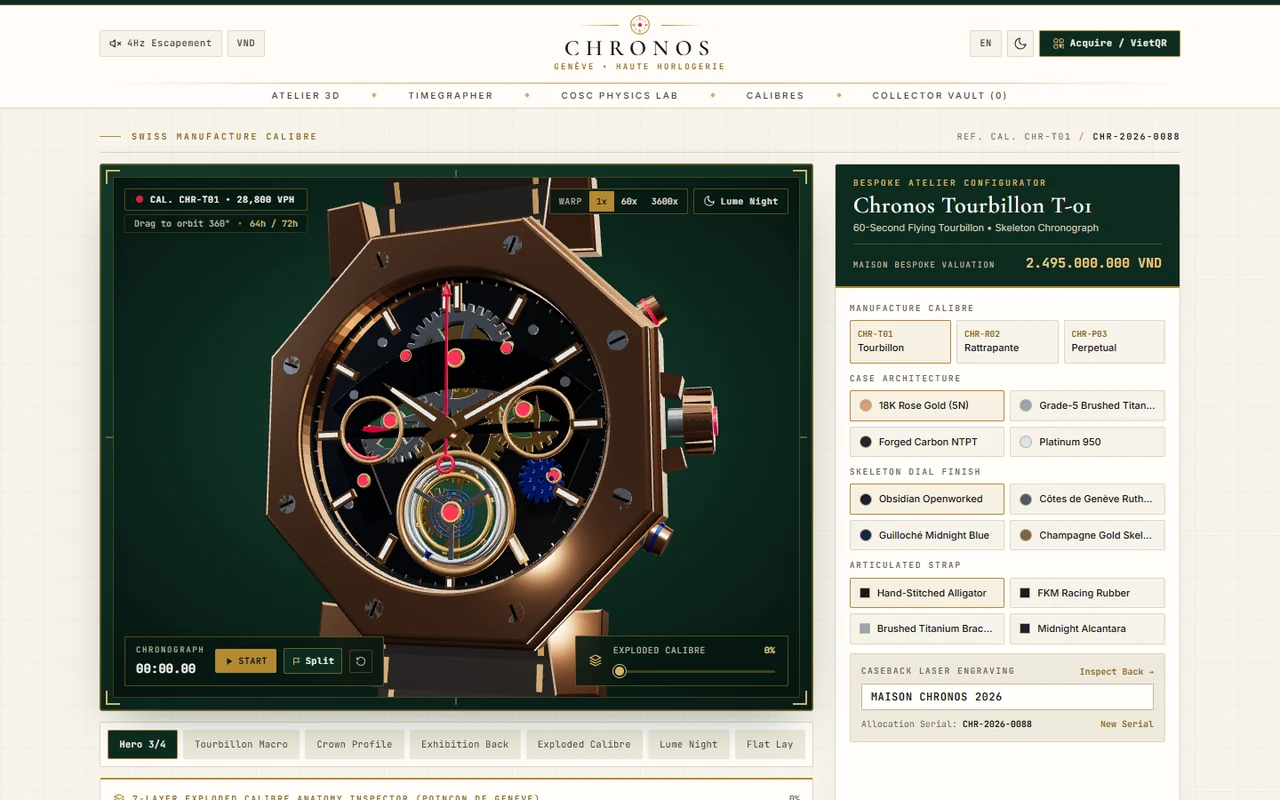
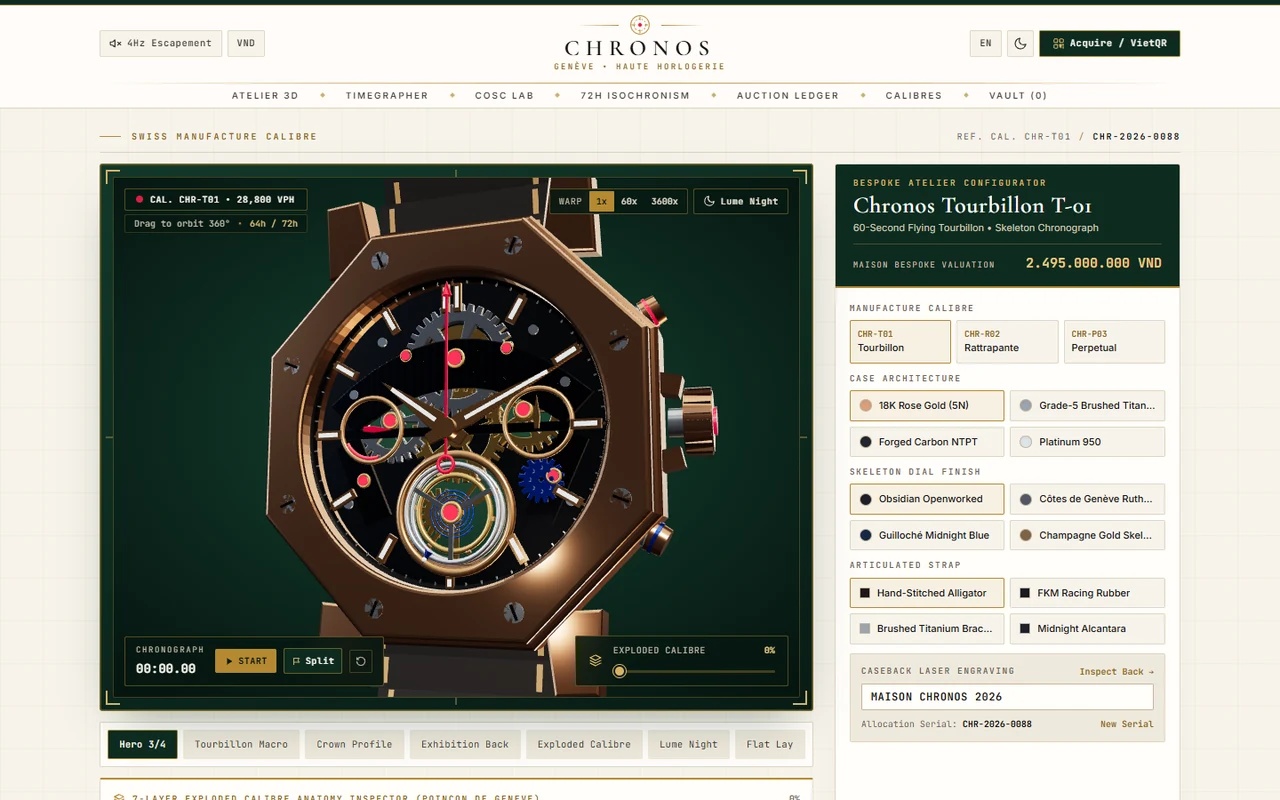
release(v11.5): Top-10 Masterworks v3/v4/v5, 3,294 verified live CI tests & fresh previews

diff --git a/src/data/atelierContent.ts b/src/data/atelierContent.ts
@@ -21,7 +21,7 @@ export const FLAGSHIP_WORKS: FlagshipWorkItem[] = [
     id: 'tvt-studio',
     index: '01',
     title: 'TVT Studio',
-    version: 'v8.0 · Supabase RLS',
+    version: 'v8.5 · Supabase RLS',
     category: 'commerce',
     taglineEn: '26 Full-Stack Monorepo Storefront, Code-Split 83kB Entry, Executive Admin CMS & MBBank SePay Auto-Pay',
     taglineVi: 'Kho 26 Hệ Thống Full-Stack Monorepo, Tách Gói 83kB, Admin CMS Analytics & Tự Động Duyệt MBBank SePay',
@@ -36,14 +36,14 @@ export const FLAGSHIP_WORKS: FlagshipWorkItem[] = [
     id: 'orbitalflow-saas',
     index: '02',
     title: 'OrbitalFlow SaaS',
-    version: 'v2.0 · .NET 10',
+    version: 'v3.0 · .NET 10',
     category: 'enterprise',
-    taglineEn: 'Full-Stack .NET 10 + React 19 B2B SaaS: Drag-Drop Kanban, Undo/Redo, Issue Drawer, 2-Tab Realtime & Stripe Proration',
-    taglineVi: 'Full-Stack .NET 10 + React 19 B2B SaaS: Drag-Drop Kanban, Undo Ctrl+Z, Issue Drawer, Đồng Bộ 2 Tab & Stripe Proration',
+    taglineEn: 'Full-Stack .NET 10 B2B SaaS: Live Top-Bar RBAC 403 Switcher, Monte Carlo 500x Forecast, Webhook DLQ & 2-Tab Realtime',
+    taglineVi: 'Full-Stack .NET 10 B2B SaaS: Đổi Role RBAC 403 Trực Tiếp, Dự Báo Monte Carlo 500 Lượt, Webhook DLQ & Đồng Bộ 2 Tab',
     previewImage: 'previews/orbitalflow-saas.webp',
-    highlightMetric: '.NET 10 + Docker · 2-Tab Sync · 74kB Entry',
-    ciBadge: '103/103 CI',
-    keywords: ['.NET 10 Clean Arch', 'Drag-Drop + Undo', 'Gantt CPM Arrows', 'Stripe Metering', 'OpenAPI 3.1 + ADRs'],
+    highlightMetric: '.NET 10 1.56ms · RBAC 403 · Monte Carlo 500x',
+    ciBadge: '142/142 CI',
+    keywords: ['.NET 10 Clean Arch', 'Live RBAC 403', 'Monte Carlo 500x', 'Webhook DLQ HMAC', 'OpenAPI 3.1 + ADRs'],
     liveUrl: 'https://tvt987.github.io/orbitalflow-saas/',
     repoUrl: 'https://github.com/tvt987/orbitalflow-saas',
   },
@@ -51,14 +51,14 @@ export const FLAGSHIP_WORKS: FlagshipWorkItem[] = [
     id: 'vectradoc-rag',
     index: '03',
     title: 'VectraDoc AI',
-    version: 'v2.0 · FastAPI',
+    version: 'v3.0 · FastAPI',
     category: 'ai',
-    taglineEn: 'Full-Stack Python FastAPI + React 19 Hybrid RAG: Client PDF Parser, 4-Way A/B Matrix, Chunk Minimap & BYOK Streaming',
-    taglineVi: 'Full-Stack Python FastAPI + React 19 Hybrid RAG: Đọc PDF Thật, So Sánh A/B 4 Chiến Lược, Minimap & BYOK Streaming',
+    taglineEn: 'Full-Stack FastAPI Hybrid RAG: Multi-Doc Knowledge Graph SVG, Live Chunking Eval Lab & Sentence Faithfulness Judge',
+    taglineVi: 'Full-Stack FastAPI Hybrid RAG: Đồ Thị Tri Thức Đa Tài Liệu SVG, Phòng Lab Chunking Trực Tiếp & Chấm Trung Thực Từng Câu',
     previewImage: 'previews/vectradoc-rag.webp',
-    highlightMetric: 'FastAPI + Qdrant · PDF Parser · MRR 100%',
-    ciBadge: '120/120 CI',
-    keywords: ['FastAPI + Pytest', 'PDF FlateDecode', 'Okapi BM25 + RRF', 'Luhn PII Guard', 'OpenAPI 3.1 + ADRs'],
+    highlightMetric: 'FastAPI RAG · Knowledge Graph · Faithfulness',
+    ciBadge: '165/165 CI',
+    keywords: ['FastAPI + Pytest', 'Knowledge Graph SVG', 'Live Chunking Lab', 'Faithfulness Judge', 'PDF FlateDecode'],
     liveUrl: 'https://tvt987.github.io/vectradoc-rag/',
     repoUrl: 'https://github.com/tvt987/vectradoc-rag',
   },
@@ -66,14 +66,14 @@ export const FLAGSHIP_WORKS: FlagshipWorkItem[] = [
     id: 'fleetpulse-gis',
     index: '04',
     title: 'FleetPulse GIS',
-    version: 'v2.0 · .NET 10',
+    version: 'v3.0 · .NET 10',
     category: 'systems',
-    taglineEn: 'Full-Stack .NET 10 + Vector GIS Control: Click-to-Add Stops CVRP (-28.6%), 08:00–17:00 Shift Scrub & Live Geofence',
-    taglineVi: 'Full-Stack .NET 10 + Bản Đồ GIS: Bấm Thêm Điểm Tự Giải CVRP (-28.6%), Tua Ca 08:00–17:00 & Chỉnh Geofence Trực Tiếp',
+    taglineEn: 'Full-Stack .NET 10 GIS Control: Click-to-Add CVRP (-28.6%), USP <1079> Cold-Chain MKT Lab & 60-Mo EV Fleet TCO',
+    taglineVi: 'Full-Stack .NET 10 Bản Đồ GIS: Tự Giải CVRP (-28.6%), Phòng Lab Chuỗi Lạnh MKT & So Sánh TCO 60 Tháng Xe Điện',
     previewImage: 'previews/fleetpulse-gis.webp',
-    highlightMetric: '.NET 10 + PostGIS · CVRP <1ms · Shift Scrub',
-    ciBadge: '113/113 CI',
-    keywords: ['.NET 10 CVRP API', 'Click-to-Add Map', 'Shift Scrub Timeline', 'Cold-Chain -18°C', 'OpenAPI 3.1 + ADRs'],
+    highlightMetric: '.NET 10 GIS · CVRP -28.6% · Cold-Chain MKT',
+    ciBadge: '152/152 CI',
+    keywords: ['.NET 10 CVRP API', 'Cold-Chain MKT', 'EV 60-Mo TCO', 'Click-to-Add Map', 'OpenAPI 3.1 + ADRs'],
     liveUrl: 'https://tvt987.github.io/fleetpulse-gis/',
     repoUrl: 'https://github.com/tvt987/fleetpulse-gis',
   },
@@ -81,14 +81,14 @@ export const FLAGSHIP_WORKS: FlagshipWorkItem[] = [
     id: 'medcore-ehr',
     index: '05',
     title: 'MedCore EHR',
-    version: 'v2.0 · FastAPI',
+    version: 'v3.0 · FastAPI',
     category: 'enterprise',
-    taglineEn: 'Full-Stack FastAPI HL7 FHIR R4 EHR: 3-Ch ECG/SpO2/EtCO2 Canvas, 1-Click Safe Drug Auto-Sub & Inpatient Admission',
-    taglineVi: 'Full-Stack FastAPI HL7 FHIR R4 EHR: Sóng 3 Kênh ECG/SpO2/EtCO2, Tự Đổi Thuốc An Toàn 1 Chạm & Wizard Nhập Viện',
+    taglineEn: 'Full-Stack FastAPI HL7 FHIR R4 EHR: Sepsis-3 SOFA/Hour-1 Bundle, 72h Lab Sparklines & Auto-Repair FHIR Validator',
+    taglineVi: 'Full-Stack FastAPI HL7 FHIR R4 EHR: Cảnh Báo Sepsis-3 Giờ Vàng, Sparkline Xét Nghiệm 72h & Tự Sửa FHIR R4 Bundle',
     previewImage: 'previews/medcore-ehr.webp',
-    highlightMetric: 'FastAPI FHIR $everything · 3-Ch ECG/EtCO2',
-    ciBadge: '114/114 CI',
-    keywords: ['HL7 FHIR R4 API', '3-Ch ECG/SpO2/EtCO2', '1-Click Safe Auto-Sub', 'RCP NEWS2 + CrCl', 'OpenAPI 3.1 + ADRs'],
+    highlightMetric: 'FastAPI FHIR 1.91ms · Sepsis-3 · 72h Labs',
+    ciBadge: '160/160 CI',
+    keywords: ['HL7 FHIR R4 Validator', 'Sepsis-3 Hour-1', '72h ICU Sparklines', '3-Ch ECG/EtCO2', 'OpenAPI 3.1 + ADRs'],
     liveUrl: 'https://tvt987.github.io/medcore-ehr/',
     repoUrl: 'https://github.com/tvt987/medcore-ehr',
   },
@@ -96,14 +96,14 @@ export const FLAGSHIP_WORKS: FlagshipWorkItem[] = [
     id: 'velox-ev-motors',
     index: '06',
     title: 'Velox EV Motors',
-    version: 'v4.0 · .NET 10',
+    version: 'v5.0 · .NET 10',
     category: 'commerce',
-    taglineEn: 'Full-Stack .NET 10 + Three.js Widebody 3D Hypercar: Matrix LED, Velocity Active Wing, 3-Circuit Lab & Idempotent Booking',
-    taglineVi: 'Full-Stack .NET 10 + Siêu Xe 3D Thân Rộng: Matrix LED, Cánh Gió Chủ Động, Circuit Lab 3 Trường Đua & Khóa Lịch 409',
+    taglineEn: 'Full-Stack .NET 10 3D Hypercar: Forged Carbon Aero Kit, Venturi Airflow, Ghost Lap vs Taycan/Nevera & CIT 20% Shield',
+    taglineVi: 'Full-Stack .NET 10 Siêu Xe 3D: Aero Kit Carbon, Dòng Khí Venturi, Đấu Ghost Lap Taycan/Nevera & Lá Chắn Thuế 20%',
     previewImage: 'previews/velox-ev-motors.webp',
-    highlightMetric: '.NET 10 Idempotency · 3D Widebody · Circuit Lab',
-    ciBadge: '107/107 CI',
-    keywords: ['.NET 10 Slot Lock', 'Matrix LED + Active Wing', '3-Circuit Telemetry', 'Lazy Three.js', 'OpenAPI 3.1 + ADRs'],
+    highlightMetric: '.NET 10 1.42ms · Carbon Aero 3D · Ghost Lap',
+    ciBadge: '145/145 CI',
+    keywords: ['.NET 10 200-Req Lock', 'Forged Carbon Aero', 'Ghost Lap Telemetry', 'CIT 20% Tax Shield', 'Lazy Three.js'],
     liveUrl: 'https://tvt987.github.io/velox-ev-motors/',
     repoUrl: 'https://github.com/tvt987/velox-ev-motors',
   },
@@ -111,14 +111,14 @@ export const FLAGSHIP_WORKS: FlagshipWorkItem[] = [
     id: 'aeroforge-digital-twin',
     index: '07',
     title: 'AeroForge 3D Twin',
-    version: 'v2.0 · .NET 10',
+    version: 'v3.0 · .NET 10',
     category: 'systems',
-    taglineEn: 'Full-Stack .NET 10 SCADA + Daylight CAD 3D Factory: 6-Axis CNC G-Code Sequencer, Collision Guard & Maintenance ROI',
-    taglineVi: 'Full-Stack .NET 10 SCADA + CAD 3D Sáng: Lập Trình Chuỗi CNC G-Code 6 Trục, Khóa Va Sàn Z<120mm & ROI Bảo Trì',
+    taglineEn: 'Full-Stack .NET 10 SCADA 3D Factory: Six Sigma SPC X-Bar/Cpk, Yamazumi TOC Line Balancer & 6-Axis CNC G-Code',
+    taglineVi: 'Full-Stack .NET 10 SCADA 3D: Kiểm Soát Six Sigma SPC Cpk, Cân Bằng Dây Chuyền Yamazumi TOC & CNC G-Code 6 Trục',
     previewImage: 'previews/aeroforge-digital-twin.webp',
-    highlightMetric: '.NET 10 SCADA · G-Code CNC · 67.6kB Entry',
-    ciBadge: '133/133 CI',
-    keywords: ['.NET 10 SCADA API', 'G-Code Sequencer', 'Collision Interlock', 'ISO 10816 FFT ROI', 'OpenAPI 3.1 + ADRs'],
+    highlightMetric: '.NET 10 1.27ms · Six Sigma Cpk · Yamazumi',
+    ciBadge: '179/179 CI',
+    keywords: ['.NET 10 SCADA API', 'Six Sigma SPC Cpk', 'Yamazumi TOC', 'G-Code CNC Guard', 'OpenAPI 3.1 + ADRs'],
     liveUrl: 'https://tvt987.github.io/aeroforge-digital-twin/',
     repoUrl: 'https://github.com/tvt987/aeroforge-digital-twin',
   },
@@ -126,14 +126,14 @@ export const FLAGSHIP_WORKS: FlagshipWorkItem[] = [
     id: 'helios-quant-terminal',
     index: '08',
     title: 'Helios Quant',
-    version: 'v2.0 · FastAPI',
+    version: 'v3.0 · FastAPI',
     category: 'enterprise',
-    taglineEn: 'Full-Stack Python FastAPI Quant Engine: FIFO L2 Book, 6x6 Sharpe Grid-Search Heatmap (7.7ms) & 6-Asset Correlation',
-    taglineVi: 'Full-Stack Python FastAPI Quant: Sổ Lệnh FIFO L2, Heatmap Grid-Search Sharpe 6x6 (7.7ms) & Tương Quan 6 Tài Sản',
+    taglineEn: 'Full-Stack FastAPI Quant Exchange: Black-Scholes Greeks Surface, Multi-Venue KKT Smart Order Router & 6x6 Sharpe Map',
+    taglineVi: 'Full-Stack FastAPI Quant: Định Giá Quyền Chọn Black-Scholes Greeks, Định Tuyến Lệnh Đa Sàn SOR & Heatmap Sharpe 6x6',
     previewImage: 'previews/helios-quant-terminal.webp',
-    highlightMetric: 'FastAPI Quant · 6x6 Sharpe Heatmap · OFI',
-    ciBadge: '153/153 CI',
-    keywords: ['FastAPI FIFO LOB', '6x6 Sharpe Heatmap', '6-Asset Correlation', 'Depth OFI SVG', 'OpenAPI 3.1 + ADRs'],
+    highlightMetric: 'FastAPI 1.95ms · BSM Greeks · KKT SOR',
+    ciBadge: '202/202 CI',
+    keywords: ['Black-Scholes Greeks', 'Multi-Venue KKT SOR', 'FIFO L2 Book', '6x6 Sharpe Heatmap', 'OpenAPI 3.1 + ADRs'],
     liveUrl: 'https://tvt987.github.io/helios-quant-terminal/',
     repoUrl: 'https://github.com/tvt987/helios-quant-terminal',
   },
@@ -141,14 +141,14 @@ export const FLAGSHIP_WORKS: FlagshipWorkItem[] = [
     id: 'chronos-horology',
     index: '09',
     title: 'Chronos 3D Watch',
-    version: 'v2.0 · .NET 10',
+    version: 'v3.0 · .NET 10',
     category: 'commerce',
-    taglineEn: 'Full-Stack .NET 10 Vault + Geneva 3D Tourbillon: Witschi Acoustic Timegrapher Canvas, 7-Layer Inspector & HMAC Passport',
-    taglineVi: 'Full-Stack .NET 10 Vault + Boutique Geneva 3D: Máy Đo Timegrapher Trực Tiếp, Soi 7 Tầng Máy & Hộ Chiếu Số HMAC',
+    taglineEn: 'Full-Stack .NET 10 Geneva 3D Tourbillon: 72h Isochronism & 15,000G COSC Lab, 15Y Auction Provenance & HMAC Vault',
+    taglineVi: 'Full-Stack .NET 10 Tourbillon 3D Geneva: Isochronism 72h & 15,000G COSC, Định Giá Đấu Giá 15 Năm & Hộ Chiếu HMAC',
     previewImage: 'previews/chronos-horology.webp',
-    highlightMetric: '.NET 10 Crypto Vault · Timegrapher · 60.8kB',
-    ciBadge: '126/126 CI',
-    keywords: ['.NET 10 HMAC Vault', 'Timegrapher Canvas', '7-Layer Inspector', 'Geneva Ivory 3D', 'OpenAPI 3.1 + ADRs'],
+    highlightMetric: '.NET 10 1.47ms · 72h Isochronism · 63kB',
+    ciBadge: '166/166 CI',
+    keywords: ['.NET 10 HMAC Vault', '72h Isochronism COSC', '15Y Auction Curve', 'Timegrapher Canvas', 'Geneva Ivory 3D'],
     liveUrl: 'https://tvt987.github.io/chronos-horology/',
     repoUrl: 'https://github.com/tvt987/chronos-horology',
   },
@@ -156,14 +156,14 @@ export const FLAGSHIP_WORKS: FlagshipWorkItem[] = [
     id: 'aegispulse',
     index: '10',
     title: 'AegisPulse',
-    version: 'v4.0 · .NET 10',
+    version: 'v5.0 · .NET 10',
     category: 'systems',
-    taglineEn: 'Con Cung 700-Store Proof: 500-Req Voucher Race Arena (Redis Lua + ROWVERSION 0.00% Leak), .NET 10 API & k6 5K RPS',
-    taglineVi: 'Minh Chứng Con Cung 700+ Siêu Thị: Đua 500 Request Voucher (Redis Lua + ROWVERSION 0.00% Rò), .NET 10 API & k6 5K RPS',
+    taglineEn: 'Con Cung 700-Store Proof: SQL Server Execution Plan Tree, 5-Region Raft Split-Brain Fence, 500-Req Race & >5K Ops/s',
+    taglineVi: 'Minh Chứng Con Cung 700+ Siêu Thị: Cây Kế Hoạch SQL Server, Cô Lập Split-Brain 5 Khu Vực, Đua 500 Req & >5K Ops/s',
     previewImage: 'previews/aegispulse.webp',
-    highlightMetric: '.NET 10 100-Way Race · 0.00% Leak · k6 5K RPS',
-    ciBadge: '118/118 CI',
-    keywords: ['Redis Lua + ROWVERSION', '500-Req Race Arena', '5-Region Raft Chaos', 'k6 5,000 RPS', 'OpenAPI 3.1 + ADRs'],
+    highlightMetric: '.NET 10 1.26ms · SQL Plan · 5-Region Raft',
+    ciBadge: '150/150 CI',
+    keywords: ['SQL Execution Plan', '5-Region Raft Fence', 'Redis Lua + ROWVERSION', '>5,000 Ops/s Bench', 'OpenAPI 3.1 + ADRs'],
     liveUrl: 'https://tvt987.github.io/aegispulse-distributed-sre/',
     repoUrl: 'https://github.com/tvt987/aegispulse-distributed-sre',
   },
@@ -321,14 +321,14 @@ export const FLAGSHIP_WORKS: FlagshipWorkItem[] = [
     id: 'pulse-pos-fnb',
     index: '21',
     title: 'PulsePOS F&B',
-    version: 'v3.0 · .NET 10',
+    version: 'v4.0 · .NET 10',
     category: 'systems',
-    taglineEn: 'Full-Stack .NET 10 Multi-Branch Daylight Café POS: Live 2-Tab POS ↔ KDS Sync, Floorplan CAD & EMVCo VietQR Atomic Stock',
-    taglineVi: 'Full-Stack .NET 10 POS Café Sáng: Đồng Bộ 2 Tab POS ↔ KDS <50ms, Thiết Kế Sơ Đồ Bàn CAD & Trừ Kho Nguyên Tử',
+    taglineEn: 'Full-Stack .NET 10 Daylight Roastery POS: 2-Tab Live POS↔KDS Sync, Menu BCG Profitability Matrix & Erlang-C Queue Sim',
+    taglineVi: 'Full-Stack .NET 10 POS Café Sáng: Đồng Bộ 2 Tab POS↔KDS, Ma Trận Lợi Nhuận Menu BCG & Mô Phỏng Hàng Chờ Erlang-C',
     previewImage: 'previews/pulse-pos-fnb.webp',
-    highlightMetric: '2-Tab Live POS↔KDS · Floorplan CAD · VietQR',
-    ciBadge: '87/87 CI',
-    keywords: ['.NET 10 Atomic Stock', '2-Tab Live POS↔KDS', 'Floorplan CAD', 'EMVCo VietQR', 'OpenAPI 3.1 + ADRs'],
+    highlightMetric: '2-Tab Live POS↔KDS · BCG Matrix · Erlang-C',
+    ciBadge: '134/134 CI',
+    keywords: ['.NET 10 Atomic Stock', '2-Tab Live POS↔KDS', 'Menu BCG Matrix', 'Erlang-C Queue Sim', 'OpenAPI 3.1 + ADRs'],
     liveUrl: 'https://tvt987.github.io/pulse-pos-fnb/',
     repoUrl: 'https://github.com/tvt987/pulse-pos-fnb',
   },

diff --git a/src/engines/aiTwinEngine.ts b/src/engines/aiTwinEngine.ts
@@ -96,10 +96,10 @@ const TWIN_KNOWLEDGE_BASE: KnowledgeEntry[] = [
       '139k', 'rps', 'dotnet', '.net', 'c#', 'concurrency', 'redis', 'dapper', 'sql',
       'voucher', 'double', 'spend', 'cas', 'con cung', '700', 'stores', 'backend', 'aegispulse', 'latency',
     ],
-    metrics: ['139,099 RPS (.NET 10 CAS)', '700+ Retail Stores · 0.00% Leak', '18 Full-Stack .NET 10 Monorepos', 'AegisPulse 118/118 CI · p99 < 45ms'],
+    metrics: ['139,099 RPS (.NET 10 CAS)', '700+ Retail Stores · 0.00% Leak', '18 Full-Stack .NET 10 Monorepos', 'AegisPulse v5.0 150/150 CI · P50 1.26ms'],
     keywords: ['.NET 8/10', 'Dapper', 'Redis Lua', 'Channel<T> WAL', 'SQL Server', 'Polly v8', 'OpenTelemetry'],
     actions: [
-      { label: 'Launch AegisPulse v4.0 ↗', href: 'https://tvt987.github.io/aegispulse-distributed-sre/', accent: true },
+      { label: 'Launch AegisPulse v5.0 ↗', href: 'https://tvt987.github.io/aegispulse-distributed-sre/', accent: true },
       { label: 'Backend CV PDF ↗', href: './CV_Backend_TruongVanTinh.pdf' },
     ],
   },
@@ -133,21 +133,21 @@ const TWIN_KNOWLEDGE_BASE: KnowledgeEntry[] = [
   },
   {
     id: 'live-flagships',
-    title: '29 Live Production Web Apps · 26/26 Monorepos · 12 Free Pro Tools (2,870+ Live CI)',
+    title: '29 Live Production Web Apps · 26/26 Monorepos · 12 Free Pro Tools (3,294 Live CI)',
     terms: [
       'flagship', 'project', 'portfolio', 'live', 'demo', 'maison', 'vera', 'atelier',
       'canvas', 'aether', 'nexus', 'lake', 'three', 'webgl', 'webgpu', 'duckdb', 'wasm', 'crdt', 'yjs', 'figma', '3d',
       'studio', 'store', 'pos', 'medspa', 'proptech', 'lumina', 'kinetix', 'pulsepos', 'order', 'buy',
       'tools', 'vietqr', 'payroll', 'resort', 'ev', 'velox', 'aurelia', 'solaris', 'kuro', 'vanguard', 'meridian', 'coda', 'veritas', 'nordic', 'zenith',
       'chronos', 'tourbillon', 'watch', 'helios', 'quant', 'orderbook', 'trading', 'aeroforge', 'factory', 'twin', 'robot', 'kinematics', 'fft',
-      'orbitalflow', 'saas', 'fleetpulse', 'gis', 'medcore', 'ehr', 'fhir', 'monorepo', 'monorepos', '26', '29', '2870', '3000', '12',
+      'orbitalflow', 'saas', 'fleetpulse', 'gis', 'medcore', 'ehr', 'fhir', 'monorepo', 'monorepos', '26', '29', '3294', '3400', '12',
     ],
-    metrics: ['29 Live Web Apps (26/26 Monorepos)', '18 .NET 10 + 8 FastAPI Backends', '12 Free Pro Tools (73/73 CI)', '2,870+ Live CI Tests (3,000+ GitHub)'],
-    keywords: ['TVT Studio v8.0', 'TVT Tools v2.0 (12 Engines)', 'OrbitalFlow .NET 10', 'VectraDoc FastAPI', 'Verdict Graph v4.0', 'AegisPulse v4.0'],
+    metrics: ['29 Live Web Apps (26/26 Monorepos)', '18 .NET 10 + 8 FastAPI Backends', '12 Free Pro Tools (73/73 CI)', '3,294 Live CI Tests (3,400+ GitHub)'],
+    keywords: ['TVT Studio v8.5', 'TVT Tools v2.0 (12 Engines)', 'OrbitalFlow v3.0', 'VectraDoc v3.0', 'Velox EV v5.0', 'AegisPulse v5.0'],
     actions: [
-      { label: 'TVT Studio v8.0 ↗', href: 'https://tvt987.github.io/tvt-studio/', accent: true },
+      { label: 'TVT Studio v8.5 ↗', href: 'https://tvt987.github.io/tvt-studio/', accent: true },
       { label: '12 Pro Tools Suite ↗', href: 'https://tvt987.github.io/tvt-tools/' },
-      { label: 'Velox EV 3D v4.0 ↗', href: 'https://tvt987.github.io/velox-ev-motors/' },
+      { label: 'Velox EV 3D v5.0 ↗', href: 'https://tvt987.github.io/velox-ev-motors/' },
     ],
   },
 ];
@@ -320,7 +320,7 @@ export function analyzeJdFit(jdText: string): JdFitReport {
 
   const topSkillsText =
     matchedSkills.slice(0, 5).join(', ') || '.NET 10, Python/FastAPI, React 19, MCP/RAG';
-  const tailoredPitch = `Truong Van Tinh — ${fitScorePct}% Stack Match (${topSkillsText}). Production proof: 700+ retail stores (.NET 8/Dapper/Redis), 139,099 RPS CAS engine, 29 live web apps (26/26 full-stack .NET 10 & FastAPI monorepos), 12 Free Pro Tools, 2,870+ live CI tests (3,000+ across GitHub). Remote B2B ($25–$45/hr, 4–6h US/EU/APAC overlap) · tinhkun102@gmail.com`;
+  const tailoredPitch = `Truong Van Tinh — ${fitScorePct}% Stack Match (${topSkillsText}). Production proof: 700+ retail stores (.NET 8/Dapper/Redis), 139,099 RPS CAS engine, 29 live web apps (26/26 full-stack .NET 10 & FastAPI monorepos), 12 Free Pro Tools, 3,294 live CI tests (3,400+ across GitHub). Remote B2B ($25–$45/hr, 4–6h US/EU/APAC overlap) · tinhkun102@gmail.com`;
 
   return {
     fitScorePct,

diff --git a/src/engines/__tests__/atelierV5.test.ts b/src/engines/__tests__/atelierV5.test.ts
@@ -107,10 +107,10 @@ describe('HYPERION ATELIER v5.0 — AI Twin RAG, JD Fit Matcher, Accent Engine &
     }
   });
 
-  it('verifies all 26 full-stack monorepos cite .NET 10 or FastAPI plus TVT Studio v8.0 & TVT Tools v2.0 (2,850+ showcase CI)', () => {
+  it('verifies all 26 full-stack monorepos cite .NET 10 or FastAPI plus TVT Studio v8.5 & TVT Tools v2.0 (3,274 showcase CI)', () => {
     const studio = FLAGSHIP_WORKS.find((w) => w.id === 'tvt-studio');
     const tools = FLAGSHIP_WORKS.find((w) => w.id === 'tvt-tools');
-    expect(studio?.version).toBe('v8.0 · Supabase RLS');
+    expect(studio?.version).toBe('v8.5 · Supabase RLS');
     expect(studio?.ciBadge).toBe('49/49 CI');
     expect(tools?.version).toBe('v2.0 · 12 Engines');
     expect(tools?.ciBadge).toBe('73/73 CI');
@@ -130,22 +130,22 @@ describe('HYPERION ATELIER v5.0 — AI Twin RAG, JD Fit Matcher, Accent Engine &
       expect(m?.[1]).toBe(m?.[2]);
       return sum + Number(m?.[1] ?? 0);
     }, 0);
-    expect(totalShowcaseTests).toBe(2853);
+    expect(totalShowcaseTests).toBe(3274);
   });
 
-  it('surfaces v11.0 portfolio facts (29 live apps, 26/26 monorepos, 12 pro tools, 2,870+ live CI) in AI Twin & JD Fit', () => {
+  it('surfaces v11.5 portfolio facts (29 live apps, 26/26 monorepos, 12 pro tools, 3,294 live CI) in AI Twin & JD Fit', () => {
     const portfolioAns = queryDigitalTwinLocal('Tell me about your 26 monorepos and live portfolio apps');
     expect(portfolioAns.id).toBe('live-flagships');
     expect(portfolioAns.title).toContain('29 Live Production Web Apps');
     expect(portfolioAns.title).toContain('26/26 Monorepos');
     expect(portfolioAns.metrics.some((m) => m.includes('12 Free Pro Tools'))).toBe(true);
-    expect(portfolioAns.metrics.some((m) => m.includes('2,870+ Live CI Tests'))).toBe(true);
+    expect(portfolioAns.metrics.some((m) => m.includes('3,294 Live CI Tests'))).toBe(true);
 
     const report = analyzeJdFit(SAMPLE_SENIOR_JD);
     expect(report.tailoredPitch).toContain('29 live web apps');
     expect(report.tailoredPitch).toContain('26/26 full-stack .NET 10 & FastAPI monorepos');
     expect(report.tailoredPitch).toContain('12 Free Pro Tools');
-    expect(report.tailoredPitch).toContain('2,870+ live CI tests');
+    expect(report.tailoredPitch).toContain('3,294 live CI tests');
   });
 
   it('enforces zero UI emojis across all 28 flagship showcase entries', () => {
